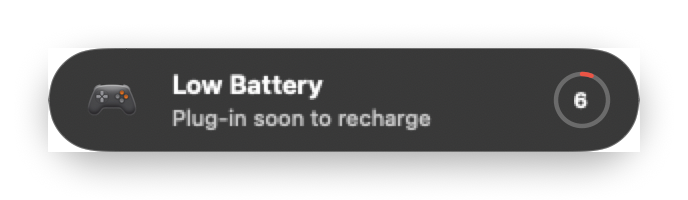
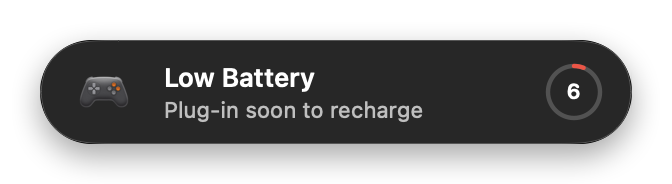
fix(ui): eliminate rectangular corner artifacts on HUD pill and preview screenshots

diff --git a/Sources/LifeBar/LowBatteryHUDView.swift b/Sources/LifeBar/LowBatteryHUDView.swift
@@ -22,10 +22,10 @@ public struct LowBatteryHUDView: View {
 
     public var body: some View {
         HStack(spacing: 12) {
-            // Left Device Glyph (Image 3: Apple built-in 3D gamepad)
+            // Left Device Glyph (Apple built-in 3D gamepad)
             leadingIconView
 
-            // Middle Description (Image 1: Apple accessory low-battery typography)
+            // Middle Description (Apple accessory low-battery typography)
             VStack(alignment: .leading, spacing: 1.5) {
                 Text("Low Battery")
                     .font(.system(size: 13, weight: .semibold, design: .default))
@@ -38,7 +38,7 @@ public struct LowBatteryHUDView: View {
 
             Spacer(minLength: 10)
 
-            // Right Circular Battery Gauge (Image 1: Circular gauge with red arc & rounded number)
+            // Right Circular Battery Gauge (Circular gauge with red arc & rounded number)
             circularGaugeView
         }
         .padding(.leading, 14)
@@ -47,17 +47,15 @@ public struct LowBatteryHUDView: View {
         .frame(width: 296, height: 52)
         .background(
             ZStack {
-                // Frosted translucent HUD glass capsule
-                VisualEffectBlur(material: .hudWindow, blendingMode: .withinWindow)
-                    .clipShape(Capsule())
+                // Frosted translucent HUD glass capsule with explicit CALayer corner clipping
+                VisualEffectBlur(material: .hudWindow, blendingMode: .withinWindow, cornerRadius: 26)
 
                 // Delicate Apple specular inner rim
                 Capsule()
                     .strokeBorder(Color.white.opacity(0.18), lineWidth: 0.5)
             }
         )
-        // Soft diffuse ambient shadow
-        .shadow(color: Color.black.opacity(0.30), radius: 18, x: 0, y: 8)
+        .clipShape(Capsule())
         .contentShape(Capsule())
         .onTapGesture {
             onDismiss?()
@@ -112,21 +110,28 @@ public struct LowBatteryHUDView: View {
     }
 }
 
-// NSVisualEffectView wrapper for SwiftUI on macOS
+// NSVisualEffectView wrapper with hardware CALayer corner radius & masking
 struct VisualEffectBlur: NSViewRepresentable {
     var material: NSVisualEffectView.Material
     var blendingMode: NSVisualEffectView.BlendingMode
+    var cornerRadius: CGFloat
 
     func makeNSView(context: Context) -> NSVisualEffectView {
         let view = NSVisualEffectView()
         view.material = material
         view.blendingMode = blendingMode
         view.state = .active
+        view.wantsLayer = true
+        view.layer?.cornerRadius = cornerRadius
+        view.layer?.masksToBounds = true
         return view
     }
 
     func updateNSView(_ nsView: NSVisualEffectView, context: Context) {
         nsView.material = material
         nsView.blendingMode = blendingMode
+        nsView.wantsLayer = true
+        nsView.layer?.cornerRadius = cornerRadius
+        nsView.layer?.masksToBounds = true
     }
 }

diff --git a/Sources/LifeBar/LowBatteryHUDController.swift b/Sources/LifeBar/LowBatteryHUDController.swift
@@ -48,7 +48,7 @@ public final class LowBatteryHUDController {
             panel.collectionBehavior = [.canJoinAllSpaces, .fullScreenAuxiliary]
             panel.backgroundColor = .clear
             panel.isOpaque = false
-            panel.hasShadow = false
+            panel.hasShadow = true
             panel.ignoresMouseEvents = false
             self.hudPanel = panel
         }
@@ -63,7 +63,11 @@ public final class LowBatteryHUDController {
 
         let hostingView = NSHostingView(rootView: hudView)
         hostingView.frame = NSRect(x: 0, y: 0, width: pillWidth, height: pillHeight)
+        hostingView.wantsLayer = true
+        hostingView.layer?.cornerRadius = pillHeight / 2.0
+        hostingView.layer?.masksToBounds = true
         panel.contentView = hostingView
+        panel.invalidateShadow()
 
         // Position panel at top center of main screen (directly below notch/menu bar)
         guard let screen = NSScreen.main else { return }
